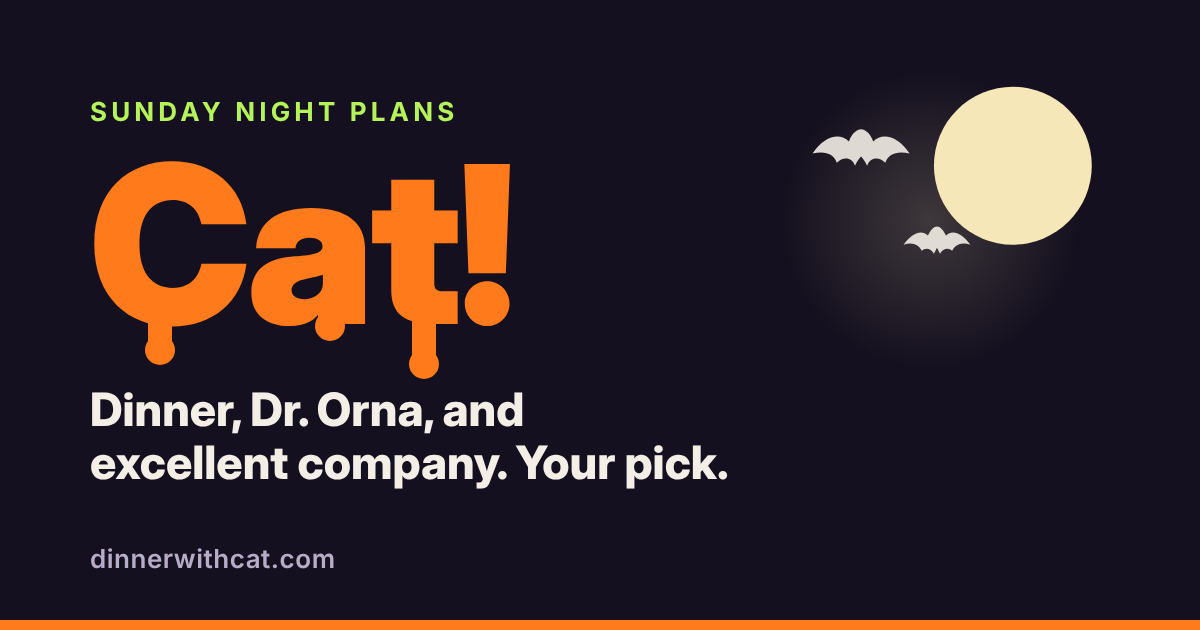
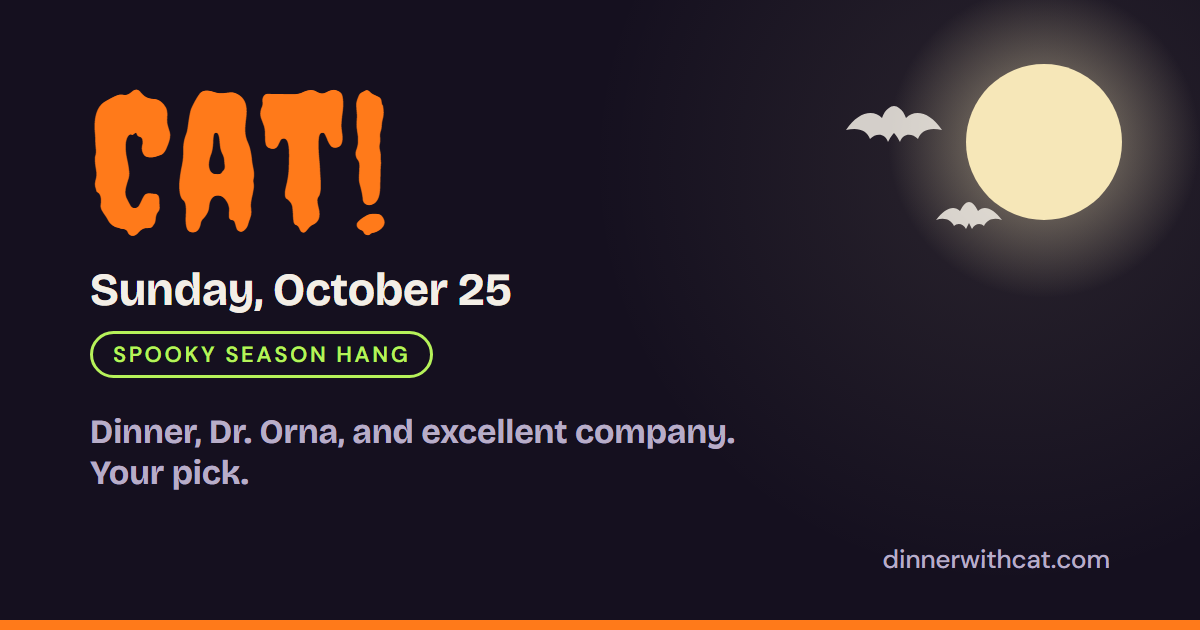
new preview
looks nice

diff --git a/index.html b/index.html
@@ -8,7 +8,7 @@
 <meta name="description" content="Dinner, Dr. Orna, and excellent company. Your pick.">
 <meta property="og:title" content="Cat! Sunday night plans">
 <meta property="og:description" content="Dinner, Dr. Orna, and excellent company. Your pick.">
-<meta property="og:image" content="https://dinnerwithcat.com/preview.png">
+<meta property="og:image" content="https://dinnerwithcat.com/preview.png?v=2">
 <meta property="og:image:width" content="1200">
 <meta property="og:image:height" content="630">
 <meta property="og:url" content="https://dinnerwithcat.com/">
